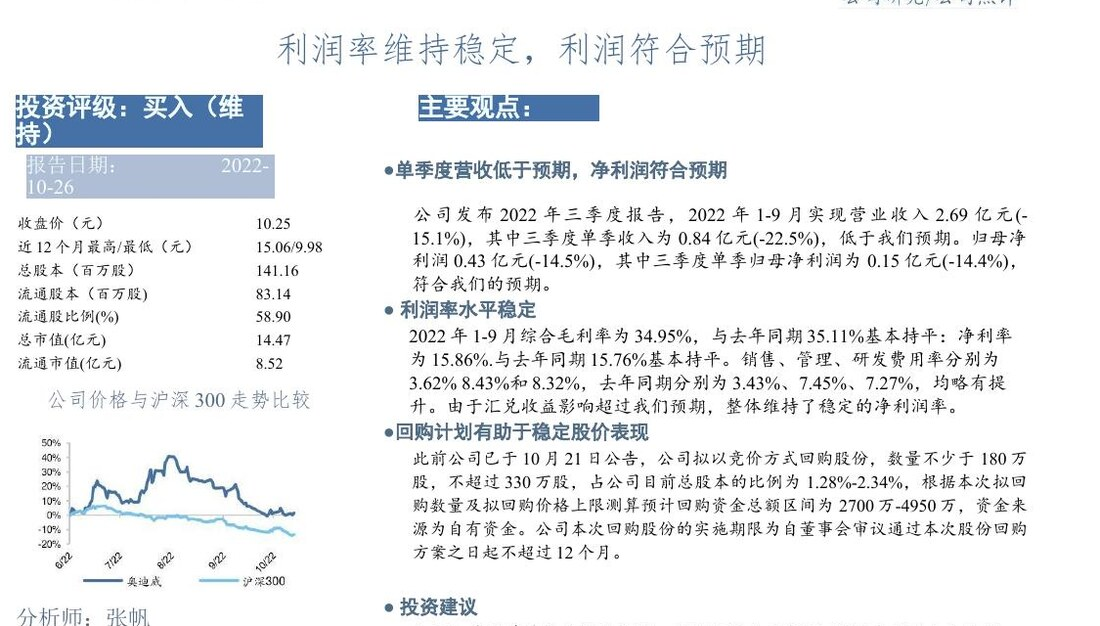
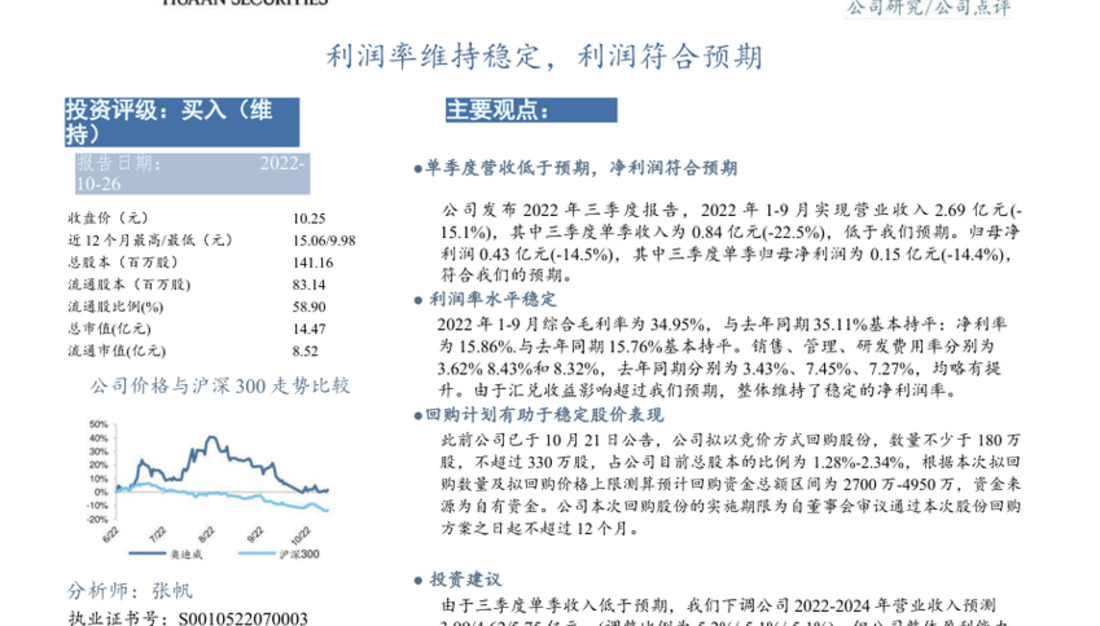
fix: normalize font inference for colored text

diff --git a/tests/test_document_analyzer.py b/tests/test_document_analyzer.py
@@ -785,6 +785,39 @@ def test_style_clustering_preserves_a_distinct_confident_font_role() -> None:
     assert by_id[assignments["accent"]].font_family == "仿宋"
 
 
+def test_style_clustering_uses_body_font_for_an_uncertain_regular_heading() -> None:
+    bodies = tuple(
+        SemanticElement(
+            f"body-{index}",
+            "paragraph_group",
+            Rect(100, 100 + index * 100, 900, 170 + index * 100),
+            index,
+            (f"body-{index}-raw",),
+            text="正文段落内容" * 10,
+            payload={
+                "lines": ("第一行", "第二行", "第三行"),
+                "font_family": "楷体",
+                "font_prediction": {"accepted": True, "margin": 0.8},
+            },
+        )
+        for index in range(3)
+    )
+    heading = SemanticElement(
+        "uncertain-heading",
+        "heading",
+        Rect(100, 450, 900, 500),
+        4,
+        ("heading-raw",),
+        text="标题文本",
+        payload={"lines": ("标题文本",), "font_prediction": {"accepted": False, "margin": 0.02}},
+    )
+
+    roles, assignments = DocumentAnalyzer()._infer_roles((AnalysisPage(0, 1000, 1400, bodies + (heading,)),))
+    by_id = {role.role_id: role for role in roles}
+
+    assert by_id[assignments["uncertain-heading"]].font_family == "楷体"
+
+
 def test_style_clustering_unifies_moderate_body_size_noise() -> None:
     elements = tuple(
         SemanticElement(

diff --git a/Code/docflow_src/docflow/analysis/document_analyzer.py b/Code/docflow_src/docflow/analysis/document_analyzer.py
@@ -744,6 +744,20 @@ class DocumentAnalyzer:
             else None
         )
 
+        body_font_counts = Counter(
+            font
+            for element, _size, base, font, _color, _stroke_ratio in samples
+            if base == "body"
+            and element.kind == "paragraph_group"
+            and len(element.text) >= 40
+            and element.payload.get("font_family")
+        )
+        body_font = None
+        if sum(body_font_counts.values()) >= 3:
+            candidate, support = body_font_counts.most_common(1)[0]
+            if support * 2 > sum(body_font_counts.values()):
+                body_font = candidate
+
         weighted_samples = []
         for element, size, base, font, color, stroke_ratio in samples:
             bold = bool(
@@ -753,6 +767,8 @@ class DocumentAnalyzer:
                 and float(stroke_ratio) >= regular_stroke * 1.08
                 and float(stroke_ratio) - regular_stroke >= max(0.006, float(stroke_spread) * 2.5)
             )
+            if base == "heading" and not bold and not element.payload.get("font_family") and body_font:
+                font = body_font
             weighted_samples.append((element, size, base, font, color, bold))
         samples = weighted_samples
 

diff --git a/tests/test_font_classification.py b/tests/test_font_classification.py
@@ -51,5 +51,5 @@ def test_font_classifier_defaults_are_the_trained_acceptance_contract() -> None:
 
     assert classifier.reject_threshold == 0.6
     assert classifier.margin_threshold == 0.25
-    assert classifier.transform.grayscale is False
+    assert classifier.transform.grayscale is True
     assert classifier.checkpoint_path.name == "mobilenetv3.ckpt"

diff --git a/Code/docflow_src/docflow/appearance/font_classifier.py b/Code/docflow_src/docflow/appearance/font_classifier.py
@@ -98,7 +98,7 @@ class FontClassifier:
         temperature: float = 1.0,
         reject_threshold: float = 0.6,
         margin_threshold: float = 0.25,
-        grayscale: bool = False,
+        grayscale: bool = True,
         binarize: bool = False,
         contrast: float = 1.0,
         invert: bool = False,
